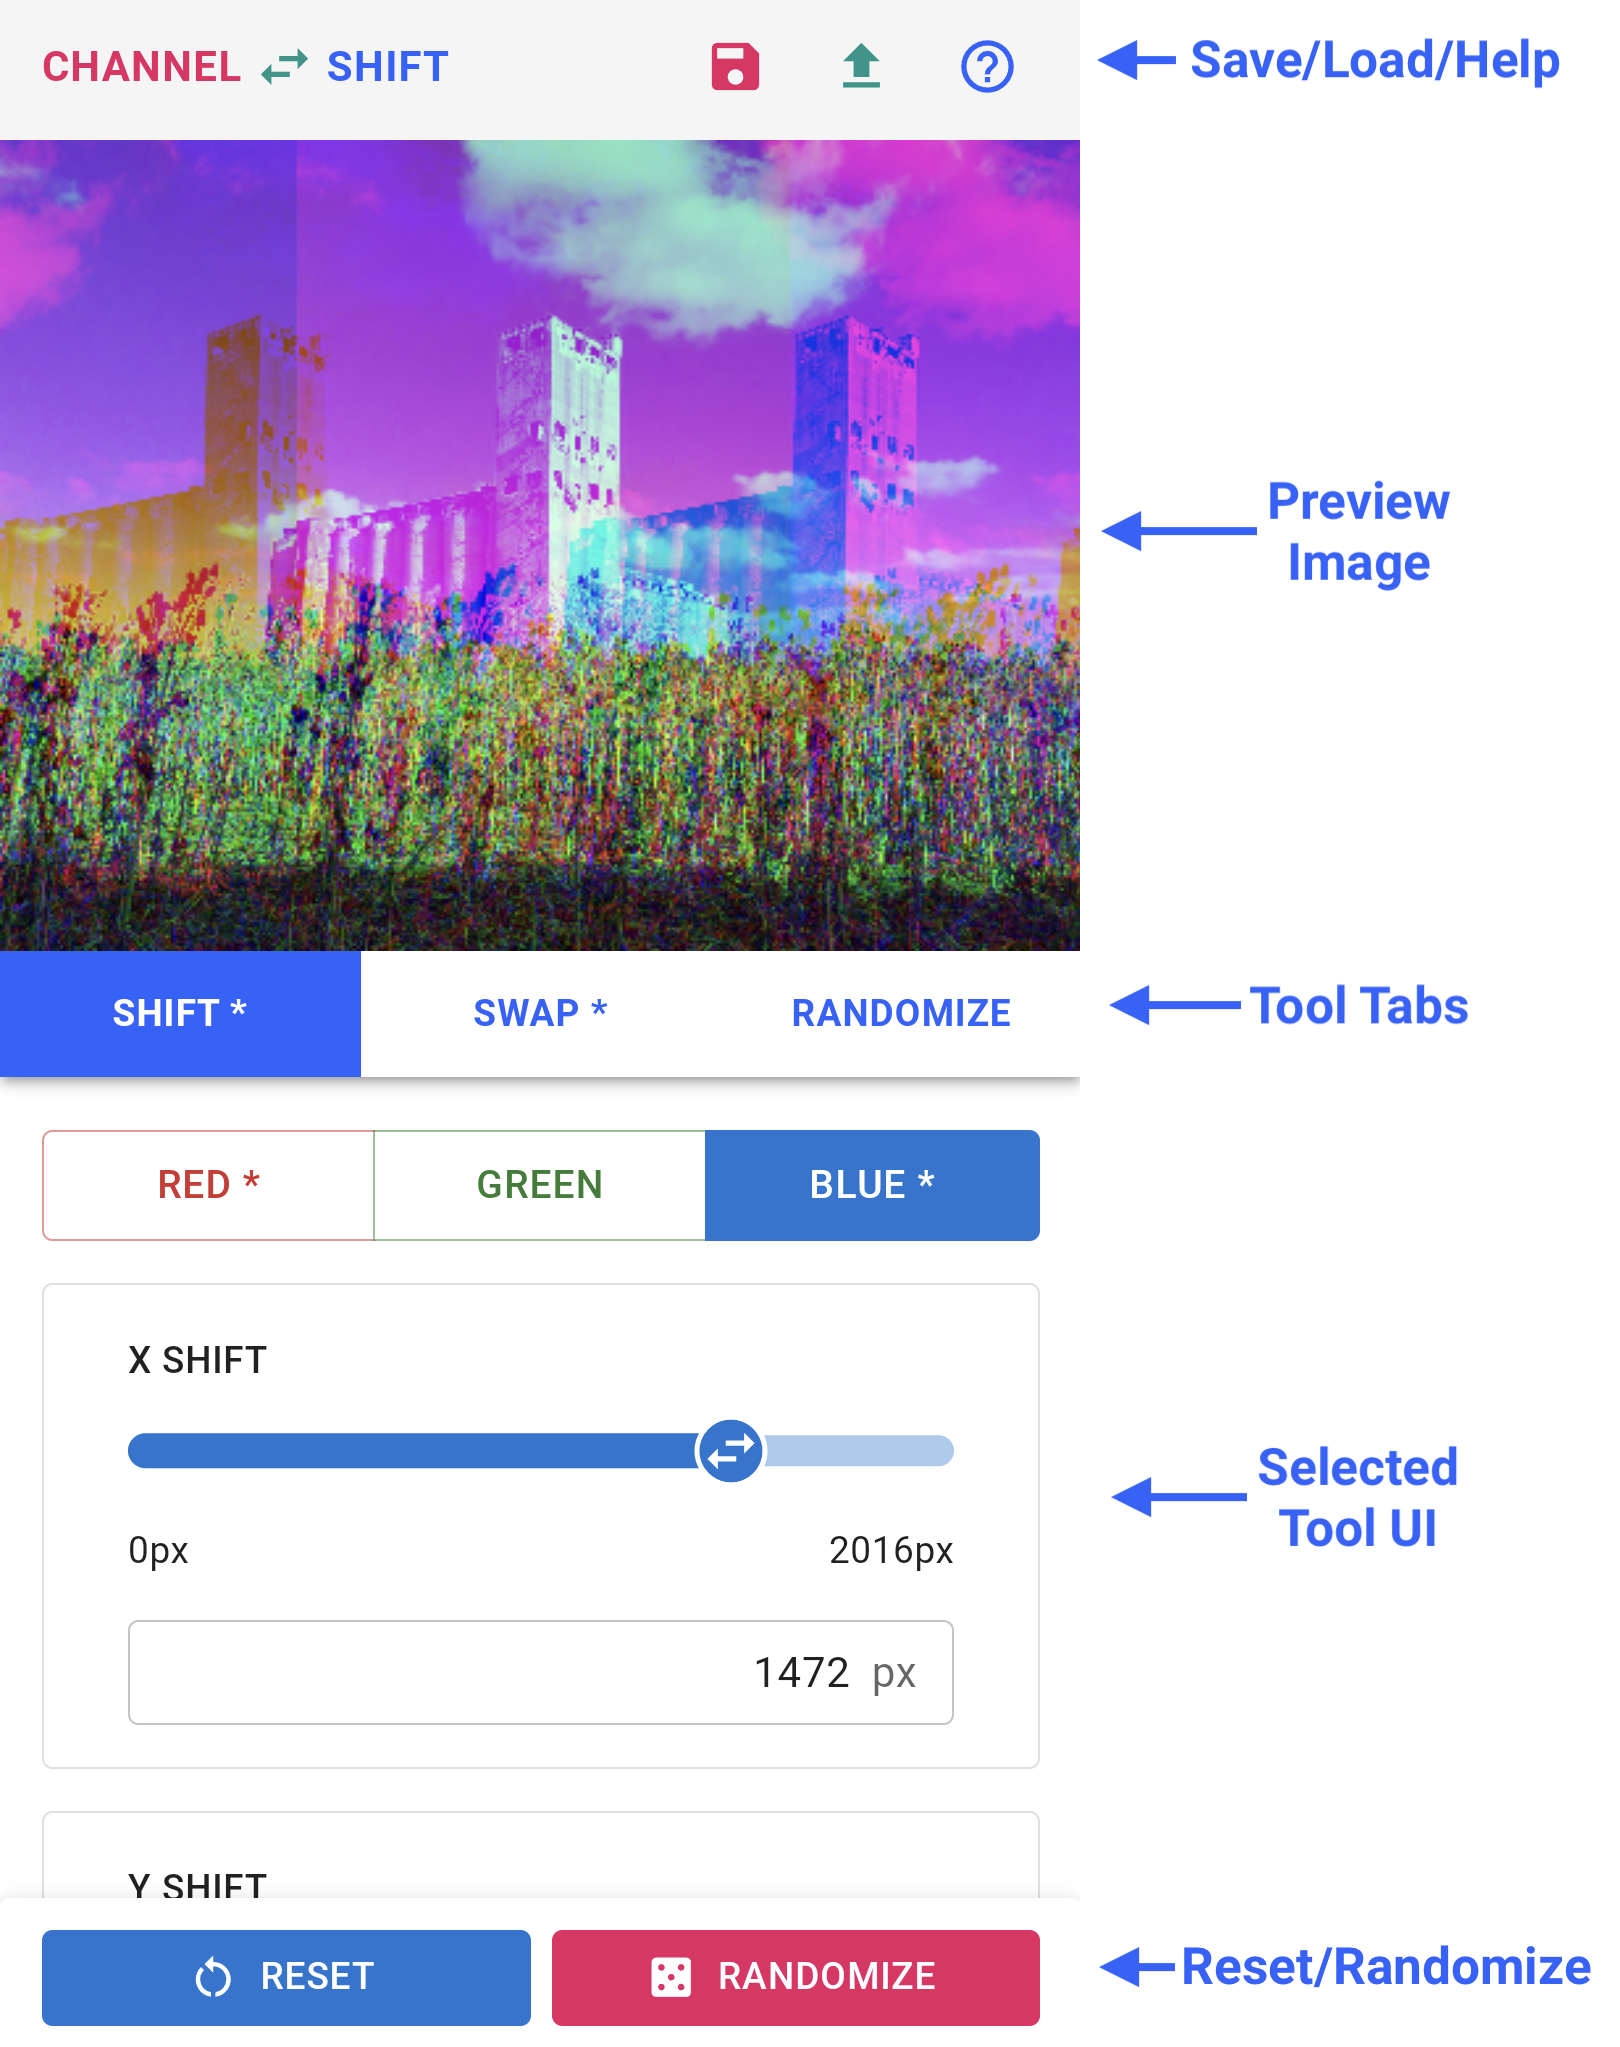
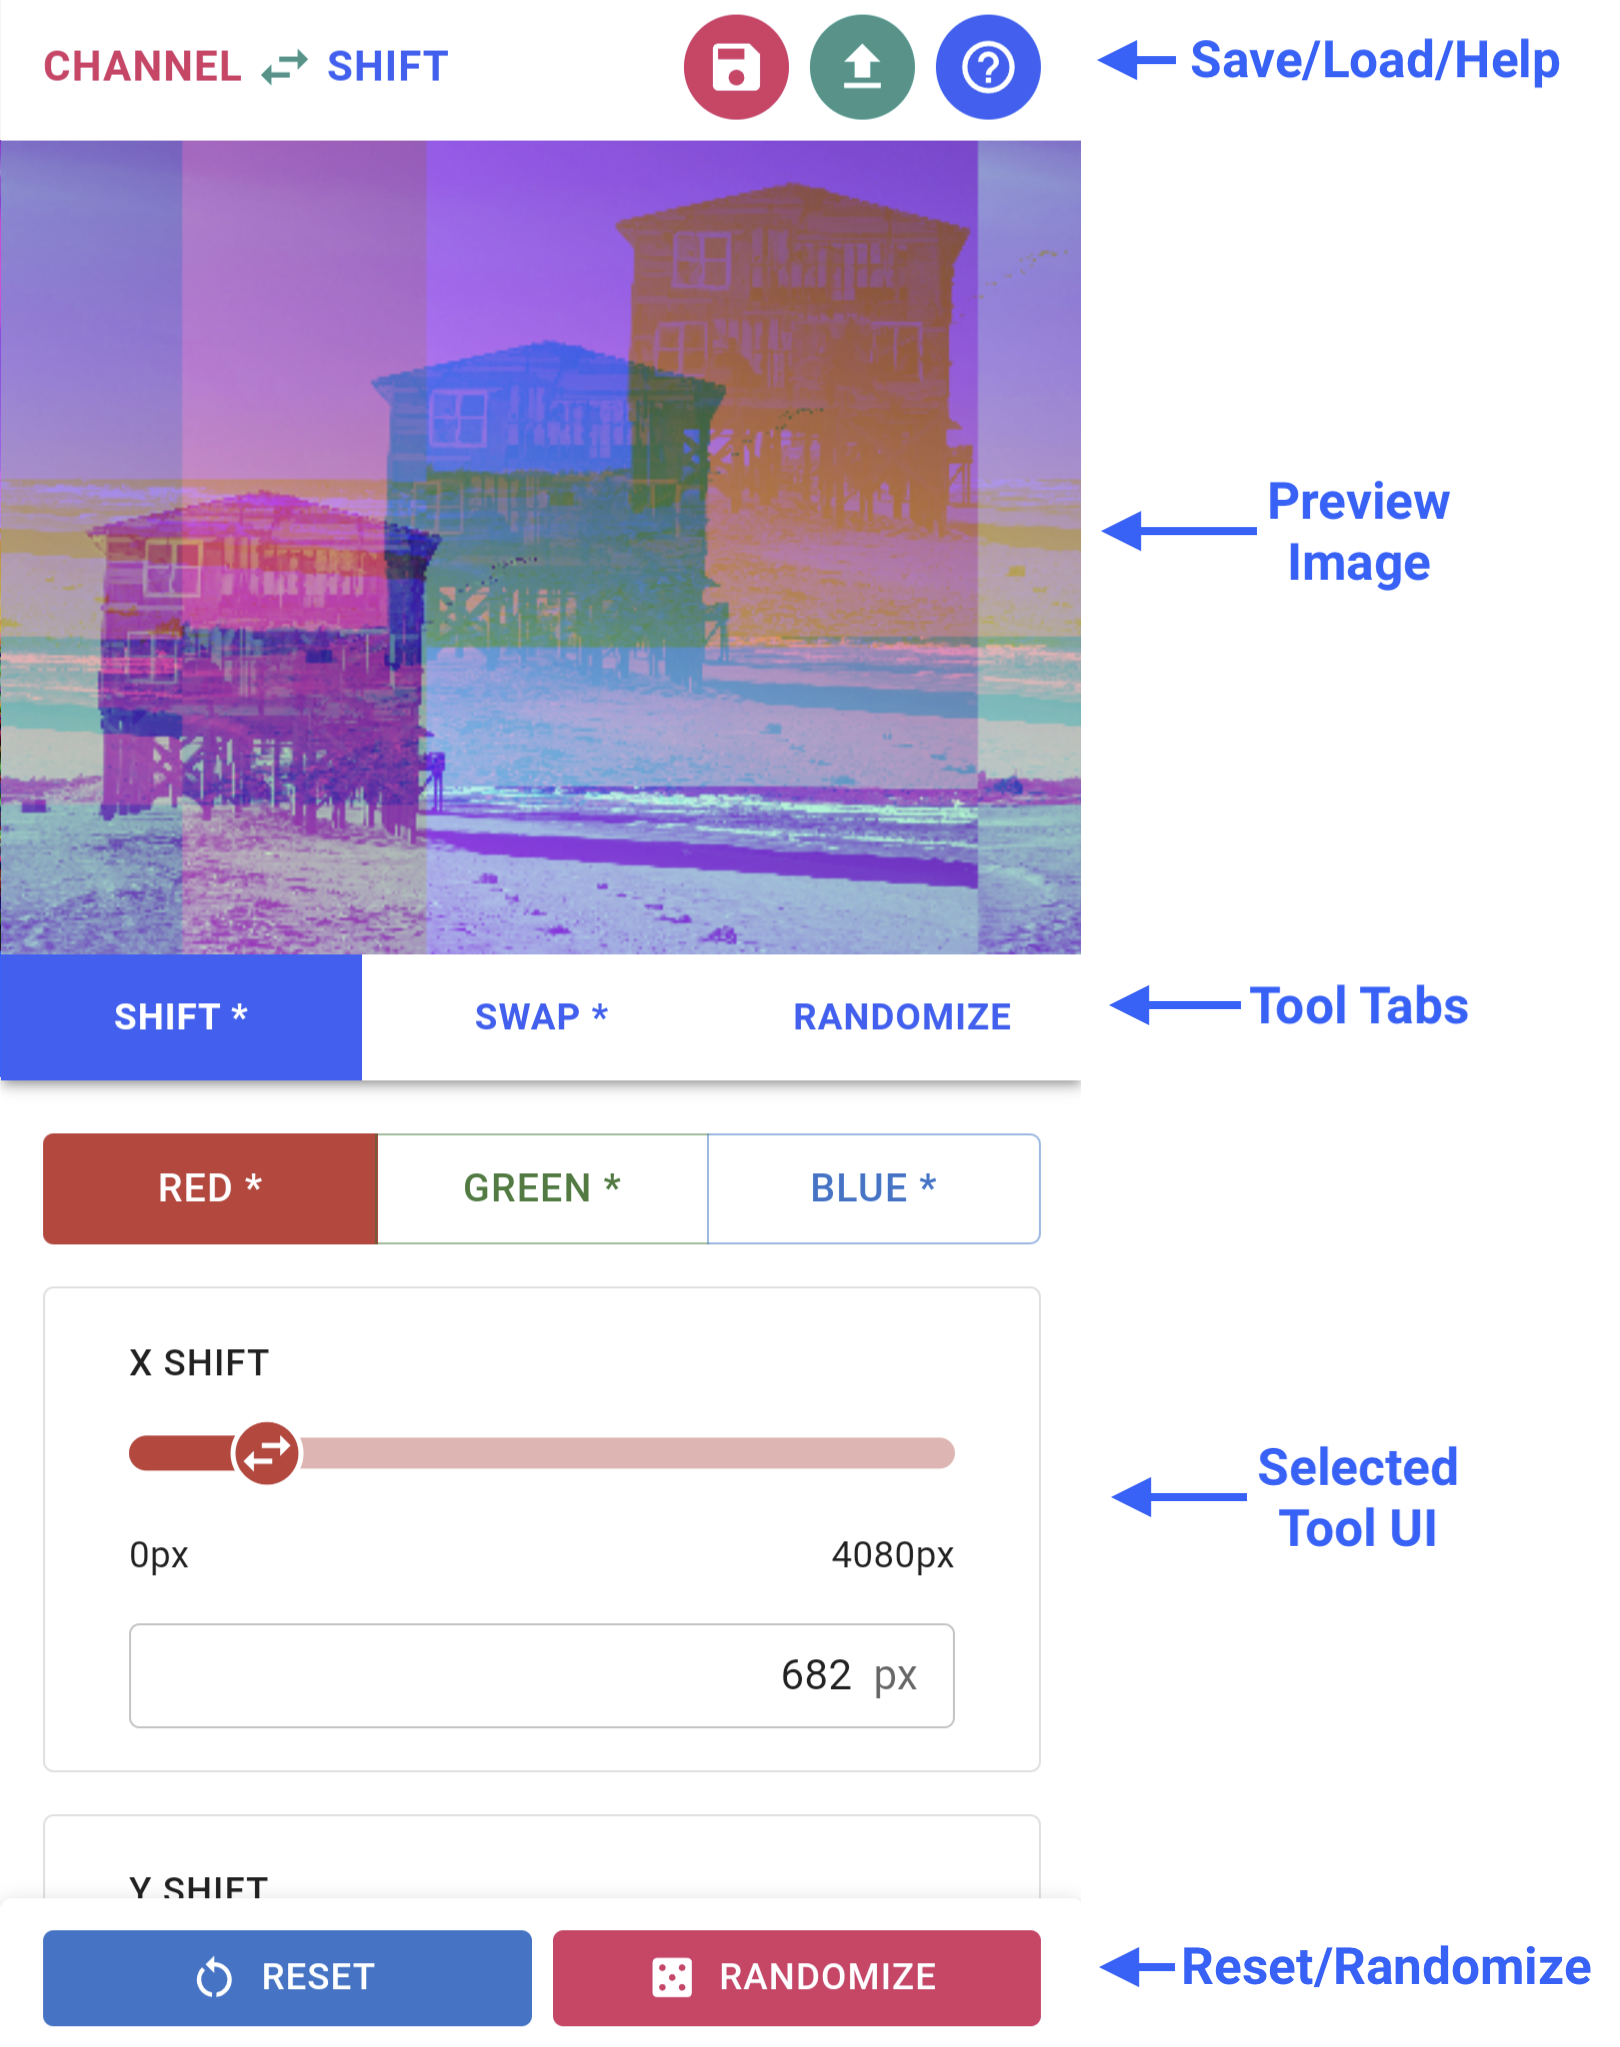
new app bar button styles

diff --git a/src/ChannelShiftAppBar.jsx b/src/ChannelShiftAppBar.jsx
@@ -1,31 +1,51 @@
-import { AppBar, IconButton, Stack, styled, Toolbar, Typography, } from '@mui/material'
+import { AppBar, Fab, Stack, styled, Toolbar, useMediaQuery, useTheme, } from '@mui/material'
 import { FileUpload, HelpOutline, Save } from '@mui/icons-material'
 import React from 'react'
 import { ChannelShiftLogo } from './common/ChannelShiftLogo'
 
+
 /**
- * Component to use in app bar IconButtons. Hidden on xs viewports.
+ * App bar button component.
  *
+ * @param labelText
  * @param color
+ * @param onClick
+ * @param icon
  * @param children
- * @return {React.JSX.Element}
+ * @param props
+ * @return {Element}
  * @constructor
  */
-const IconButtonResponsiveLabel = ({ color, children }) => (
-  <Typography
-    variant="button"
-    color={ color }
-    ml={ 1 }
-    sx={ {
-      display: {
-        xs: 'none',
-        sm: 'block',
-      },
-    } }
-  >
-    { children }
-  </Typography>
-)
+const AppBarButton = ({
+                        labelText,
+                        color,
+                        onClick,
+                        icon,
+                        children,
+                        ...props
+                      }) => {
+  const theme = useTheme()
+  // Extended button on larger views
+  const extendedFab = useMediaQuery(theme.breakpoints.up('sm'))
+
+  return (
+    <Fab
+      aria-label={ labelText }
+      color={ color }
+      onClick={ onClick }
+      variant={ extendedFab ? 'extended' : 'circular' }
+      size={ extendedFab ? 'medium' : 'small' }
+      sx={ {
+        boxShadow: 'none'
+      } }
+      { ...props }
+    >
+      { icon }
+      { extendedFab ? labelText : '' }
+      { children }
+    </Fab>
+  )
+}
 
 /**
  * Save image button element.
@@ -43,16 +63,12 @@ const SaveButton = ({ setShouldSaveResult }) => {
   }
 
   return (
-    <IconButton
-      onClick={ saveButtonOnClick }
-      aria-label="save"
+    <AppBarButton
+      labelText="Save"
       color="info"
-    >
-      <Save/>
-      <IconButtonResponsiveLabel>
-        Save
-      </IconButtonResponsiveLabel>
-    </IconButton>
+      onClick={ saveButtonOnClick }
+      icon={ <Save/> }
+    />
   )
 }
 
@@ -98,21 +114,18 @@ const LoadButton = ({ setNewFileDataURL }) => {
     }
   }
   return (
-    <IconButton
+    <AppBarButton
       component="label"
-      aria-label="load"
+      labelText="Load"
       color="warning"
+      icon={ <FileUpload/> }
     >
-      <FileUpload/>
-      <IconButtonResponsiveLabel>
-        Load
-      </IconButtonResponsiveLabel>
       <VisuallyHiddenInput
         type="file"
         accept="image/*"
         onChange={ loadImageFileInputOnChange }
         id="load-image-file-input"/>
-    </IconButton>
+    </AppBarButton>
   )
 }
 
@@ -125,19 +138,14 @@ const LoadButton = ({ setNewFileDataURL }) => {
  */
 const HelpButton = ({ setHelpOpen }) => {
   return (
-    <IconButton
-      aria-label="help"
+    <AppBarButton
+      labelText="Help"
+      color="secondary"
       onClick={ () => {
         setHelpOpen(true)
       } }
-    >
-      <HelpOutline color="secondary" />
-      <IconButtonResponsiveLabel
-        color="secondary"
-      >
-        Help
-      </IconButtonResponsiveLabel>
-    </IconButton>
+      icon={ <HelpOutline/> }
+    />
   )
 }
 
@@ -184,10 +192,10 @@ export const AppBarButtons = ({
  * @constructor
  */
 export const ChannelShiftAppBar = ({
-                                         setShouldSaveResult,
-                                         setNewFileDataURL,
-                                         setHelpOpen
-                                       }) => {
+                                     setShouldSaveResult,
+                                     setNewFileDataURL,
+                                     setHelpOpen
+                                   }) => {
   // TODO: decouple sticky container from canvas + tabs, then update this to be sticky or whatev
   return (
     <AppBar
